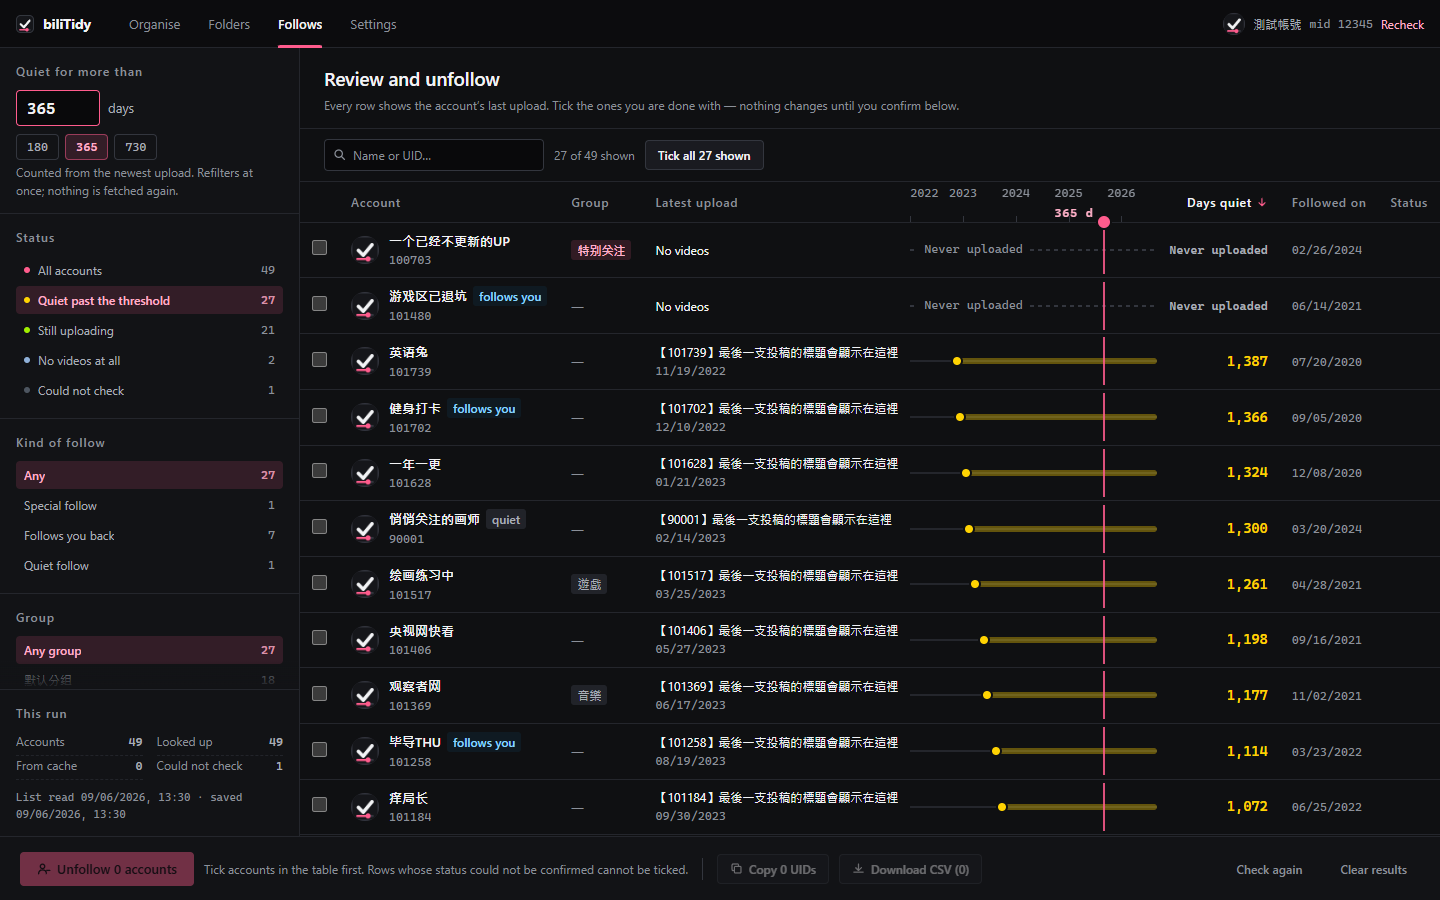
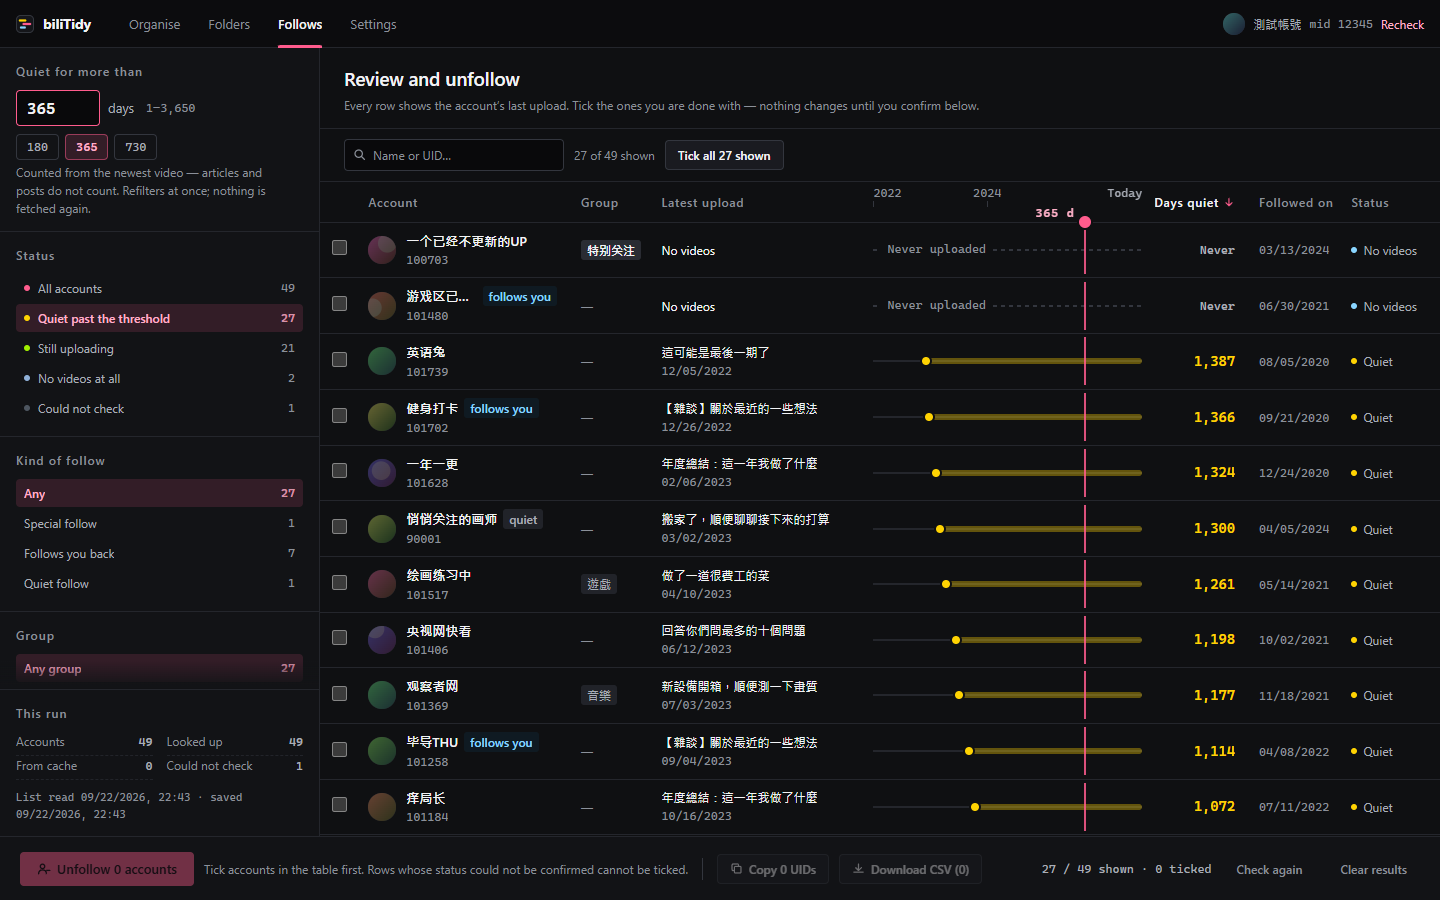
fix(preview): stop the screenshots looking like they failed to load
Every hdslb.com image request was answered with the extension's own
icon, so all four covers and all eleven avatars in the README shots were
the same mark tiled. The follows rows printed the explanatory string
"the last upload's title will show here" as if it were data.

Covers and faces now get a per-URL gradient and the titles read like
what a channel posts before going quiet. The data stays fake on
purpose (PRODUCT.md): real screenshots would put a real account's
follow list in a public repo.

diff --git a/CHANGELOG.md b/CHANGELOG.md
@@ -10,6 +10,16 @@
 
 ## [Unreleased]
 
+### Fixed
+
+- **README 的兩張截圖比產品舊了 15 天，而且假資料假到像壞掉。** 截圖最後產生於圖示重畫（`b2f4dcc`）
+  之前，所以它們展示的是已經換掉的舊標誌；更糟的是 `scripts/ui-preview.mjs` 對所有 `hdslb.com`
+  的圖片請求一律回傳擴充自己的 icon，於是每一支影片的封面、每一個 UP 的頭像都是同一個標誌鋪滿，
+  看起來像圖片載入失敗；關注表裡每一列的標題還直接印著「最後一支投稿的標題會顯示在這裡」這句說明文字。
+  現在封面與頭像依 URL 各產生一張暗色漸層圖，標題換成十二句安靜下來的帳號真的會發的那種東西。
+  假資料仍然是假的（`PRODUCT.md` 的原則不變：截圖一律來自對假資料的實際渲染，不用真實帳號的內容），
+  只是不再假到像沒做完。
+
 ### Added
 
 - **biliFavOrg 與 biliFollowCleaner 合併成一個擴充功能 biliTidy。** 兩者做的是同一種「先審核、再批次收拾」，
